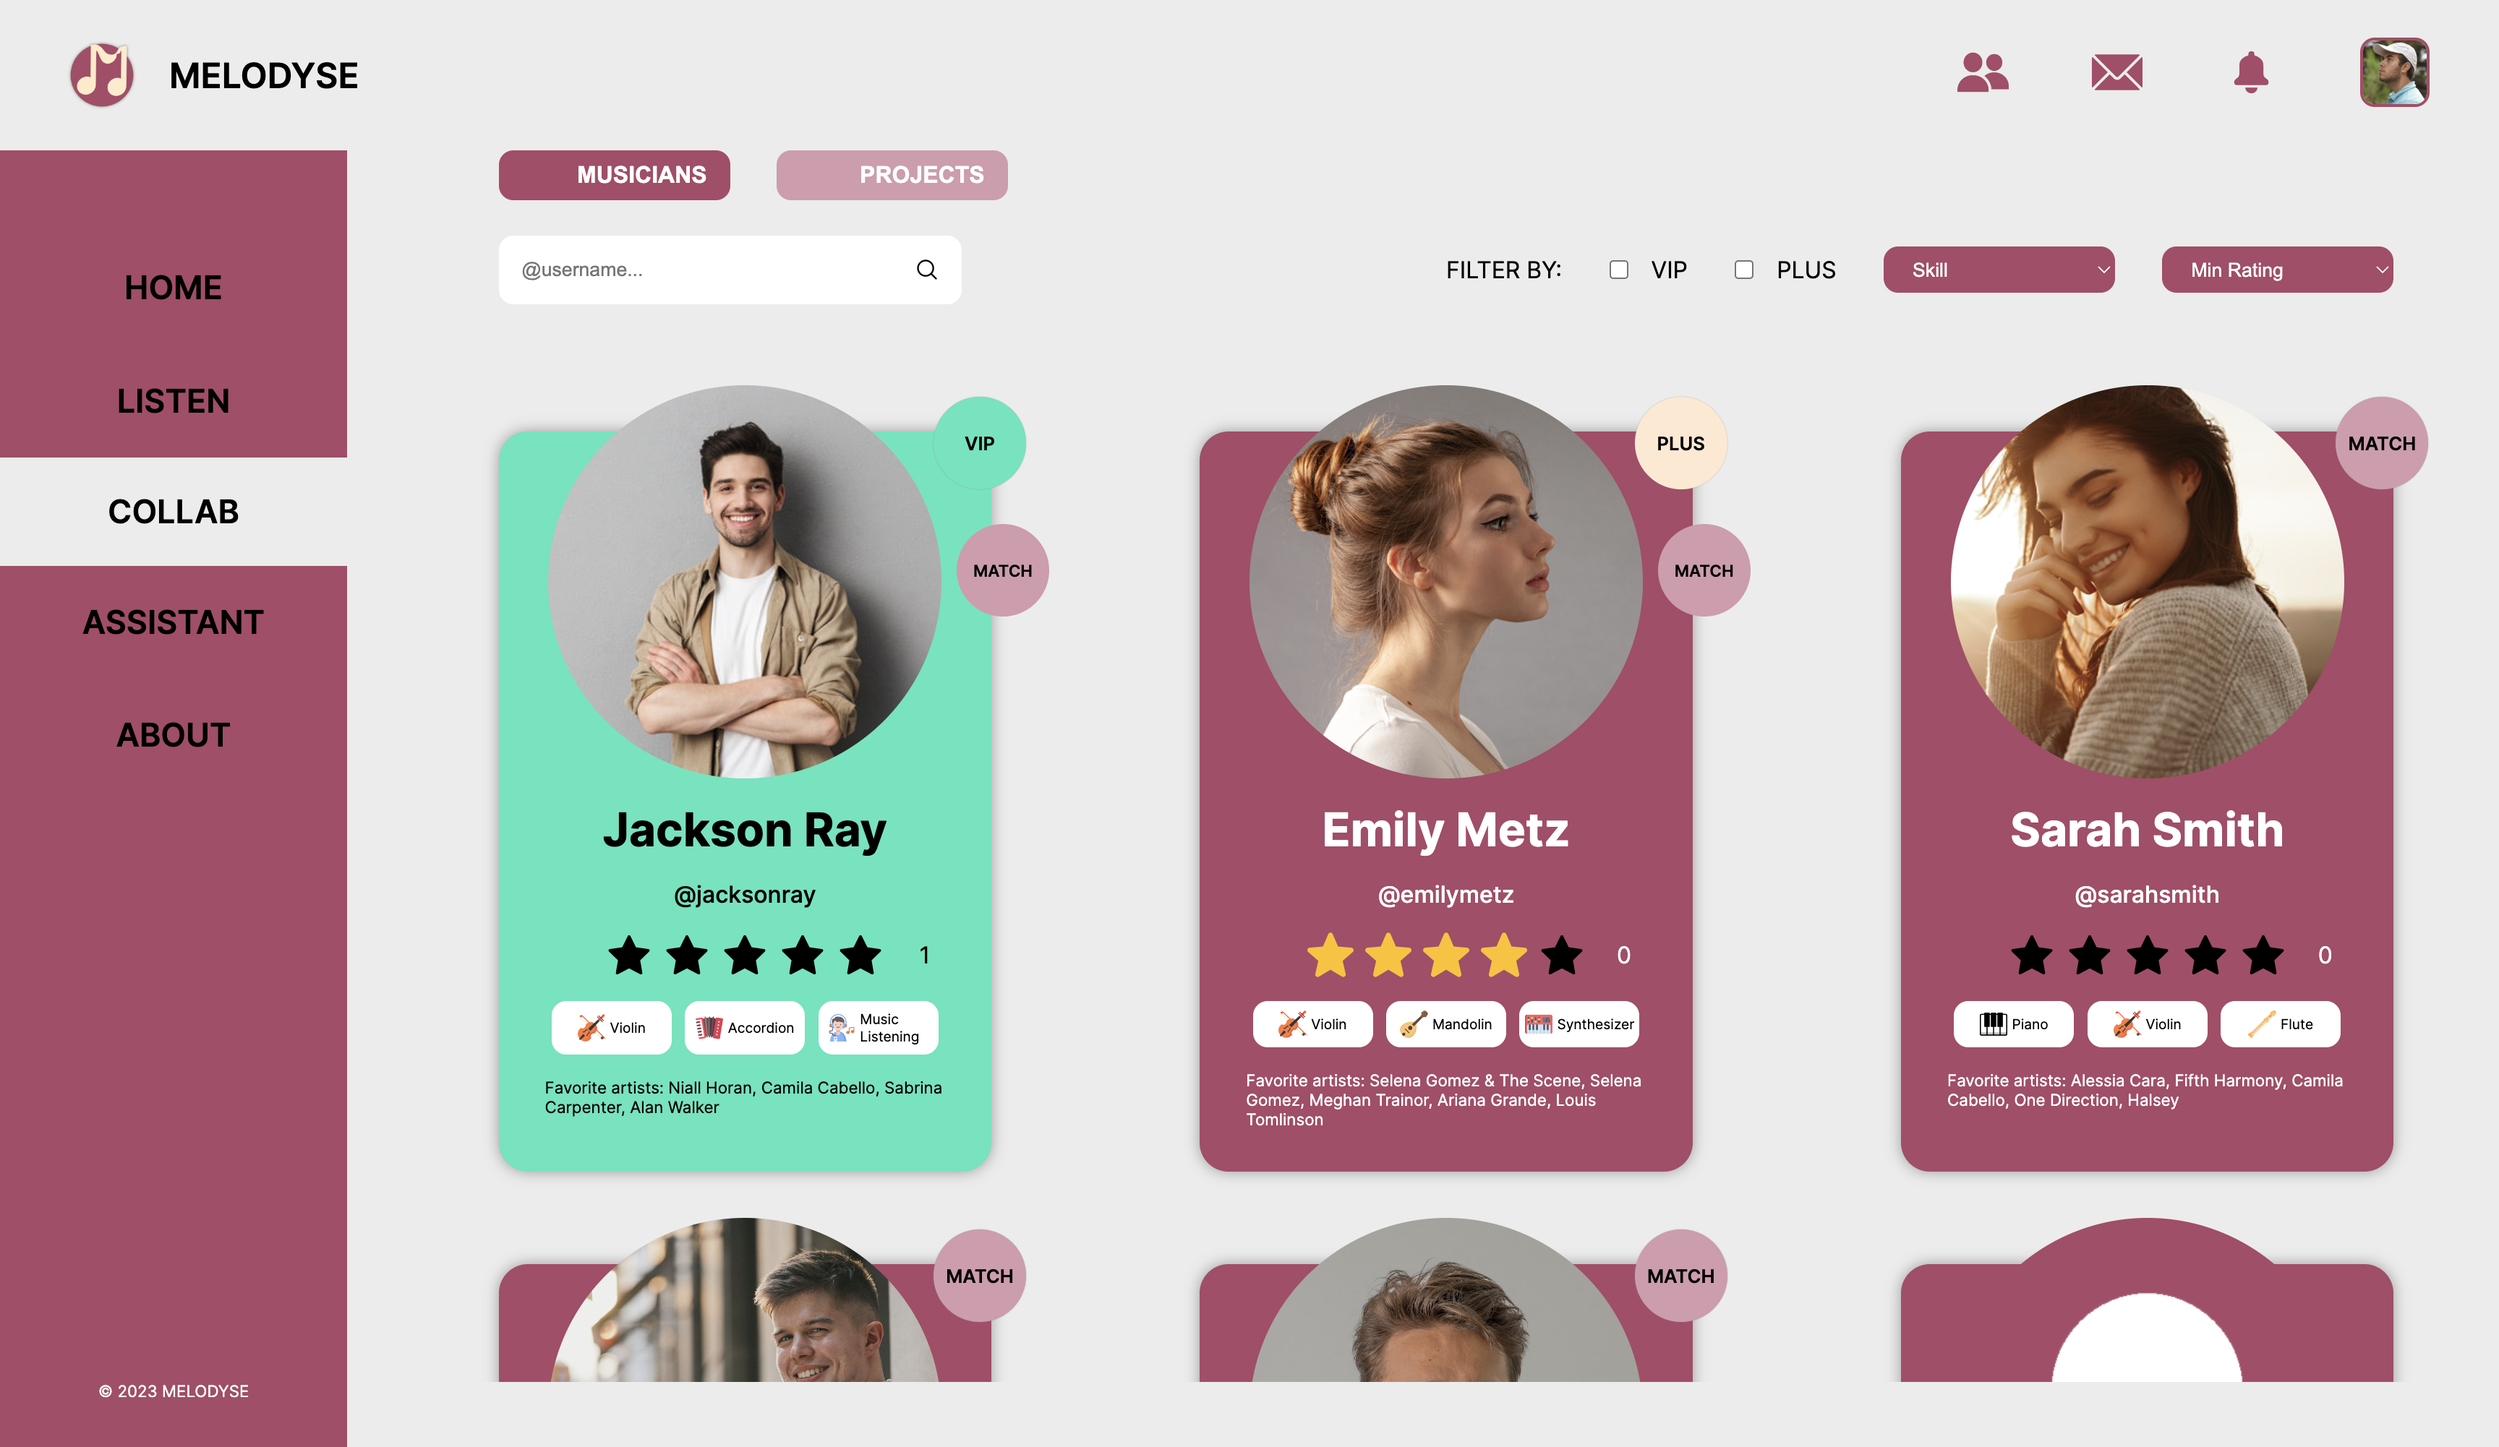
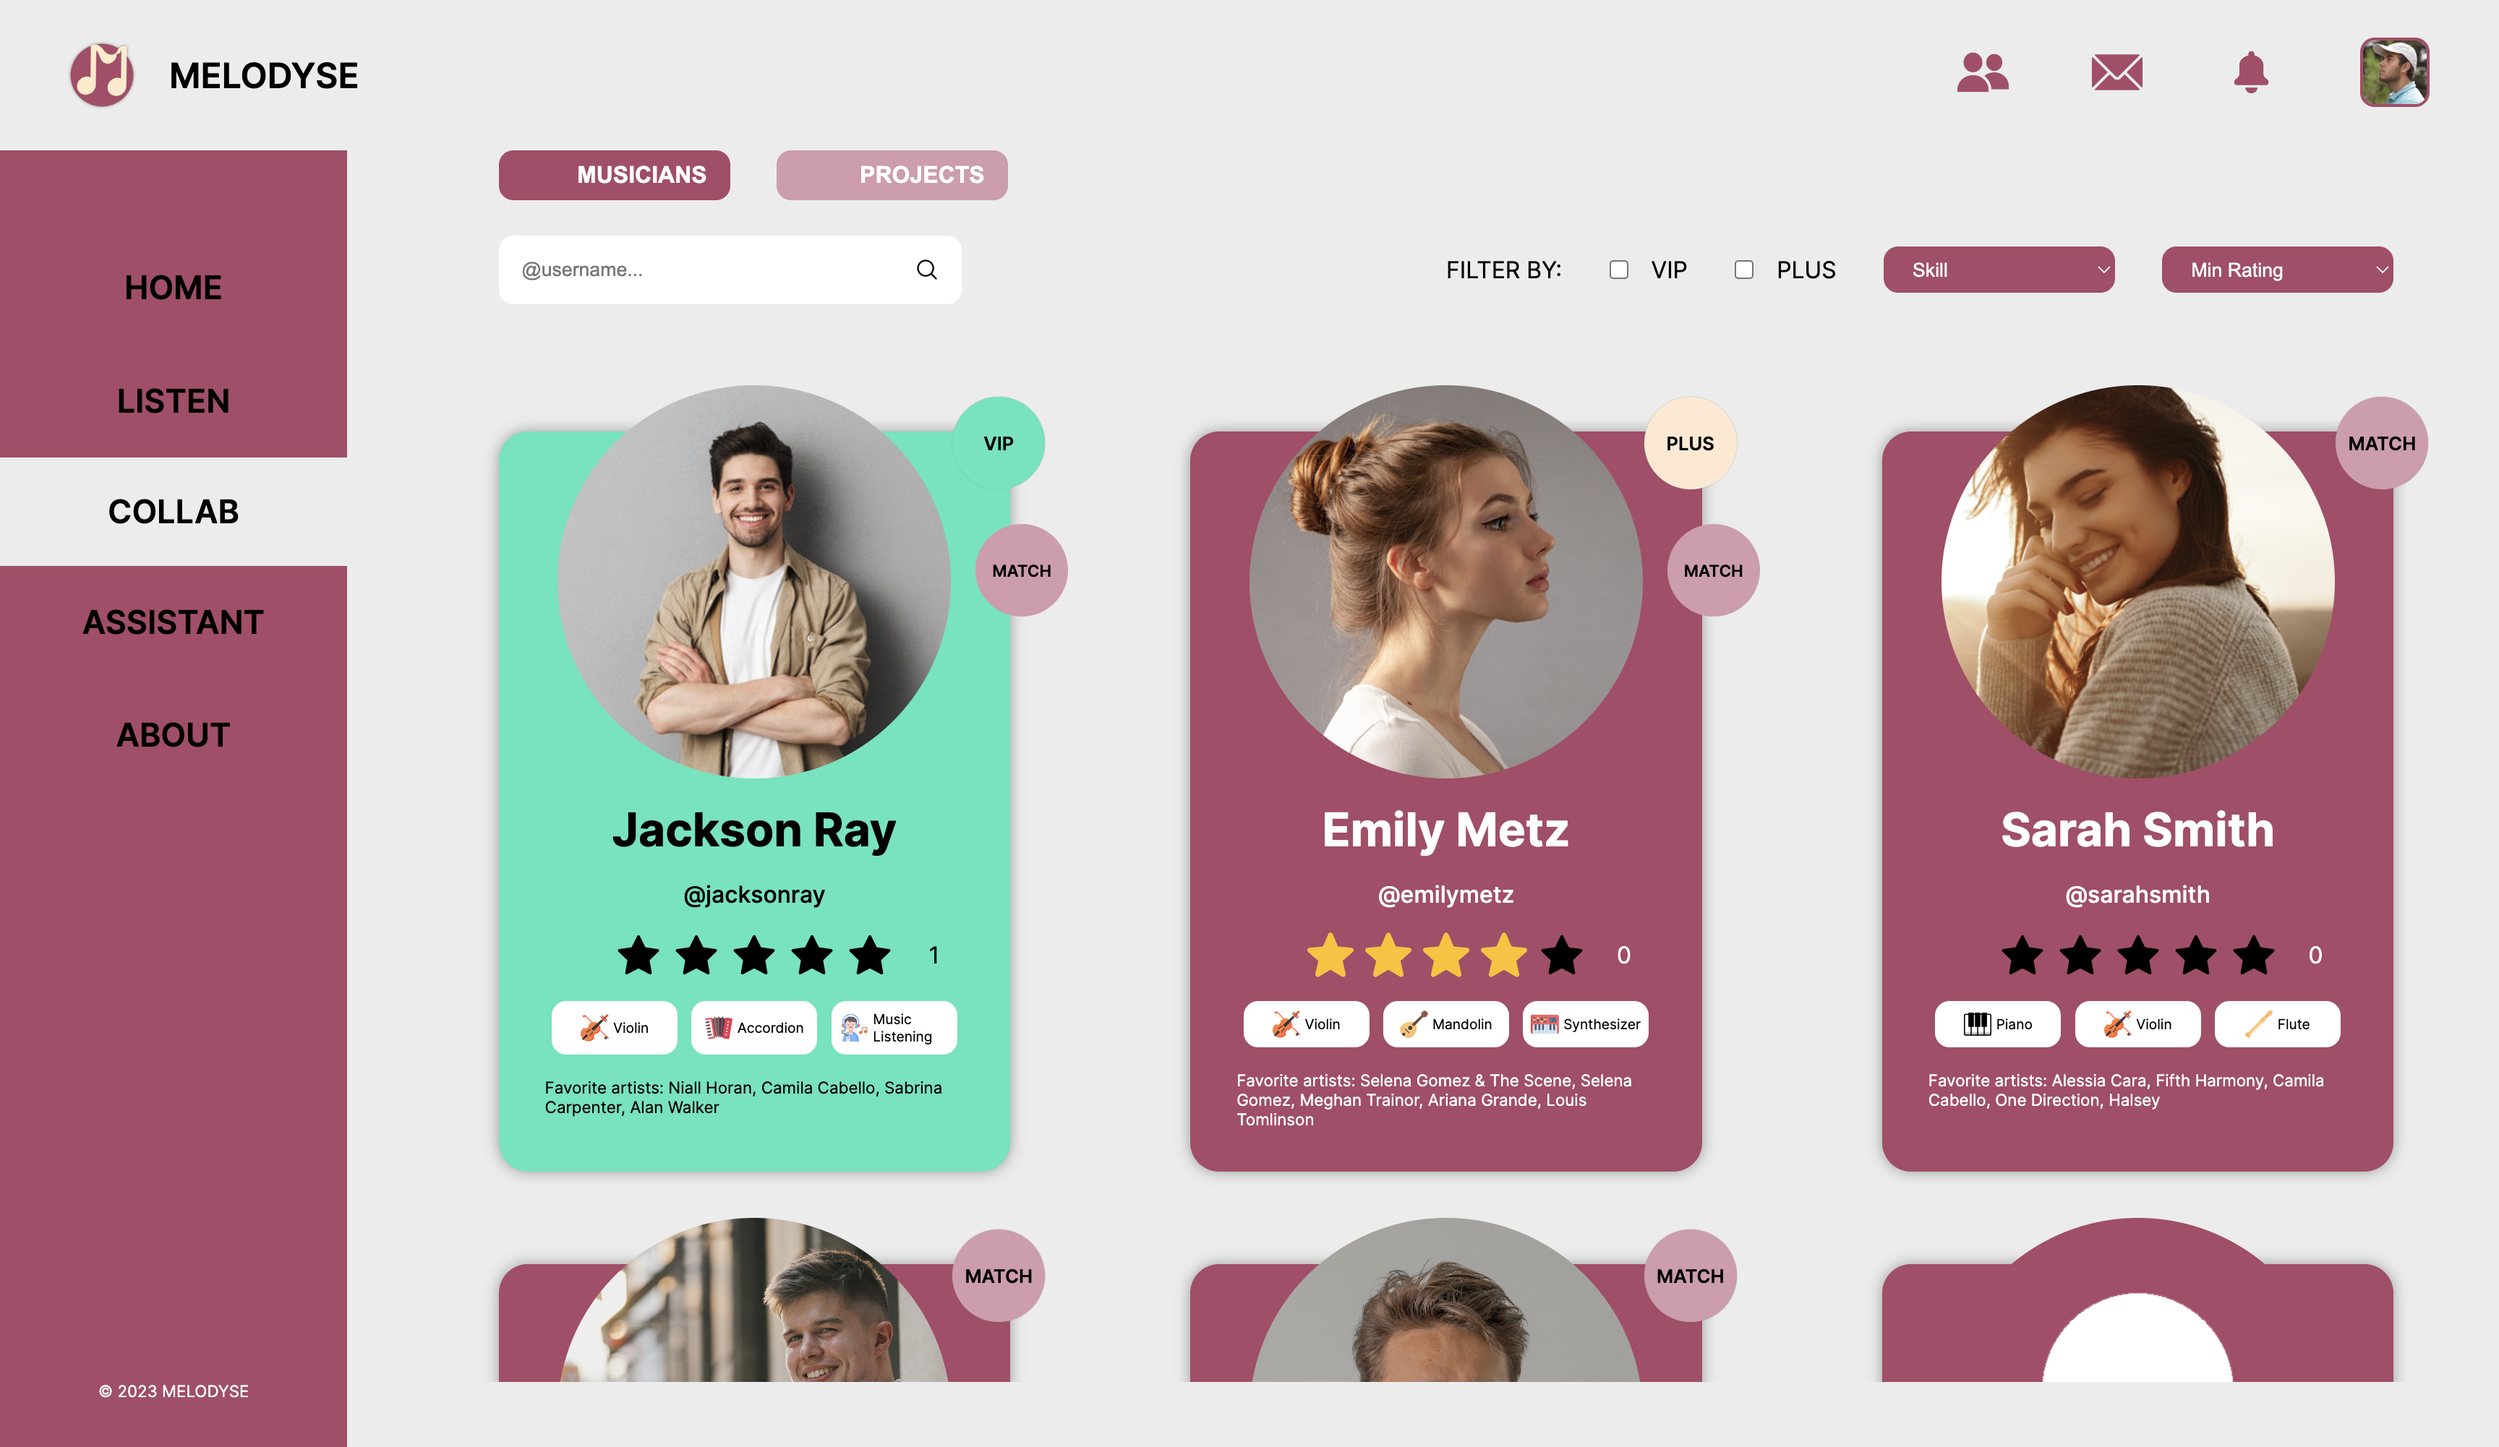
frontend: updated image

diff --git a/melodyse_frontend/src/components/MusicianCard/MusicianCard.module.scss b/melodyse_frontend/src/components/MusicianCard/MusicianCard.module.scss
@@ -10,7 +10,7 @@ $main_red: #AB4967;
     padding: 1rem 2rem;
     padding-top: 16rem;
     height: 32rem;
-    width: 26%;
+    width: 27%;
     color: white;
     border-radius: 20px;
     transition: all 0.3s;

diff --git a/melodyse_frontend/src/components/AIActionButtonWide/AIActionButtonWide.module.scss b/melodyse_frontend/src/components/AIActionButtonWide/AIActionButtonWide.module.scss
@@ -24,7 +24,8 @@ $main_red: #AB4967;
 }
 
 .aibutton:hover {
-    transform: scale(1.05);
+    transform: translateY(-0.2rem);
+    filter: brightness(110%);
     transition: all 0.3s;
 }
 

diff --git a/melodyse_frontend/src/components/AIActionButton/AIActionButton.module.scss b/melodyse_frontend/src/components/AIActionButton/AIActionButton.module.scss
@@ -24,7 +24,8 @@ $main_red: #AB4967;
 }
 
 .aibutton:hover {
-    transform: scale(1.1);
+    transform: translateY(-0.2rem);
+    filter: brightness(110%);
     transition: all 0.3s;
 }
 

diff --git a/melodyse_frontend/src/components/AIButton/AIButton.module.scss b/melodyse_frontend/src/components/AIButton/AIButton.module.scss
@@ -16,7 +16,8 @@ $main_red: #AB4967;
 }
 
 .aibutton:hover {
-    transform: scale(1.1);
+    transform: translateY(-0.2rem);
+    filter: brightness(110%);
     transition: all 0.3s;
 }
 

diff --git a/melodyse_frontend/src/styles/Collab.module.scss b/melodyse_frontend/src/styles/Collab.module.scss
@@ -92,5 +92,5 @@ $main_red: #AB4967;
 }
 .artists::after{
     content: '';
-    width: 26% 
+    width: 27% 
   }

diff --git a/README.md b/README.md
@@ -59,14 +59,14 @@
 | ---| ---| ---|
 | ![fsdaf](./readme/melodyse/production.png) | ![fsdaf](./readme/melodyse/songwriting.png) | ![Landing](./readme/melodyse/learning.png) | 
 
-| Release Assistant Screen |
+| Release Assistant Screen | | |
 | ---| ---| ---|
-|![fsdaf](./readme/melodyse/release.png) |
+|![fsdaf](./readme/melodyse/release.png) | | |
 
 > To implement a matching algorithm, we used a small dataset that contains users and their favorite genres. We then used cosine similarity to calculate the similarities between the users. Here is what the dataset looks like :
 
 ### Dataset
-| ![fsdaf](./readme/melodyse/dataset.png)
+![fsdaf](./readme/melodyse/dataset.png)
 
 
 <br><br>
